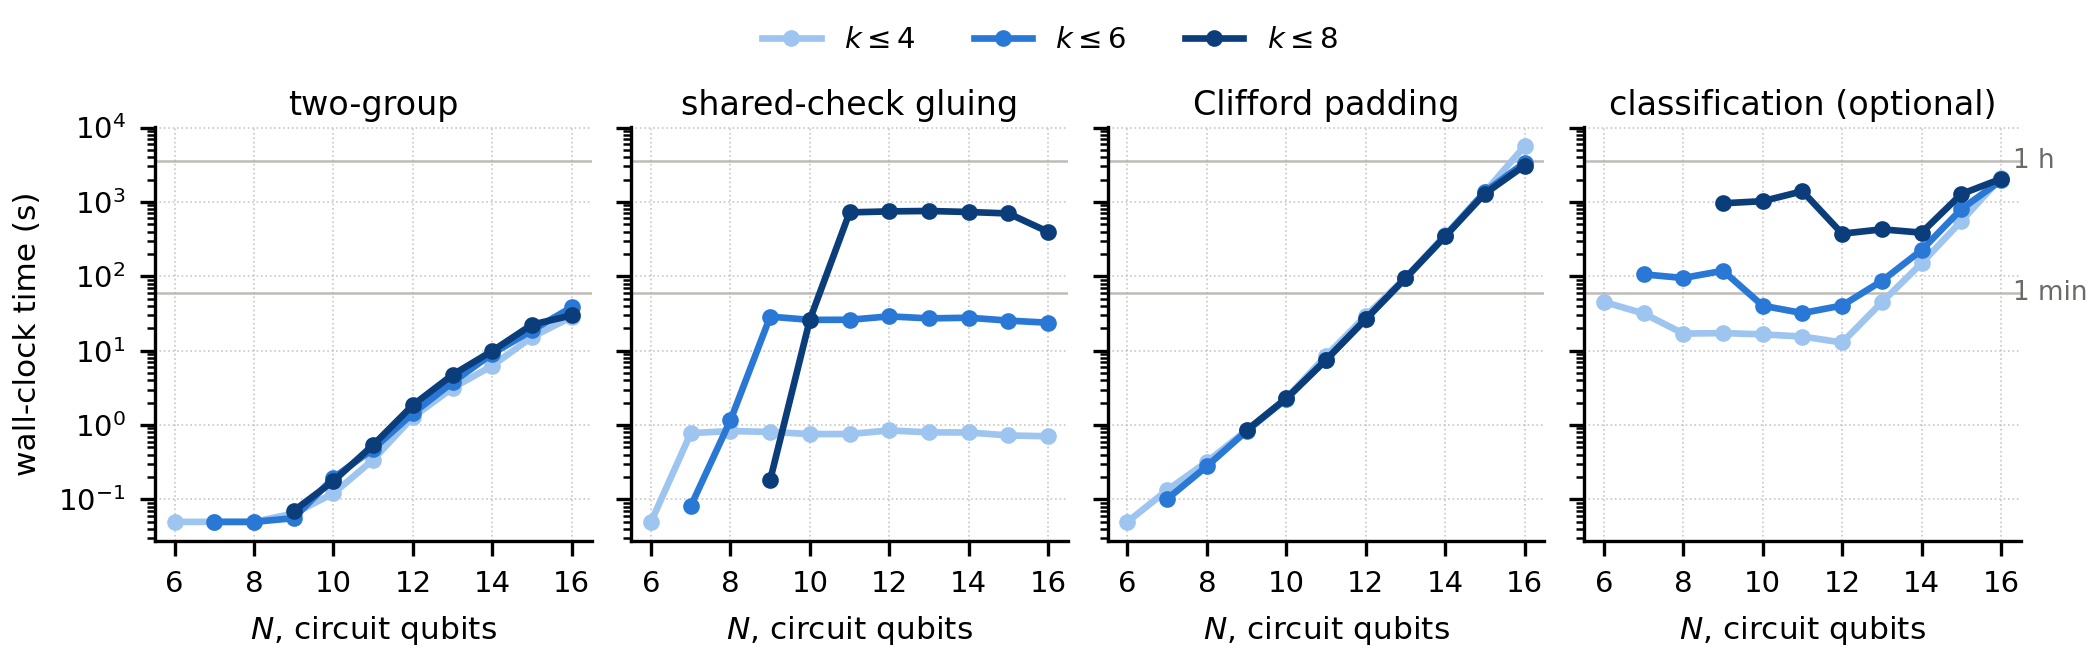
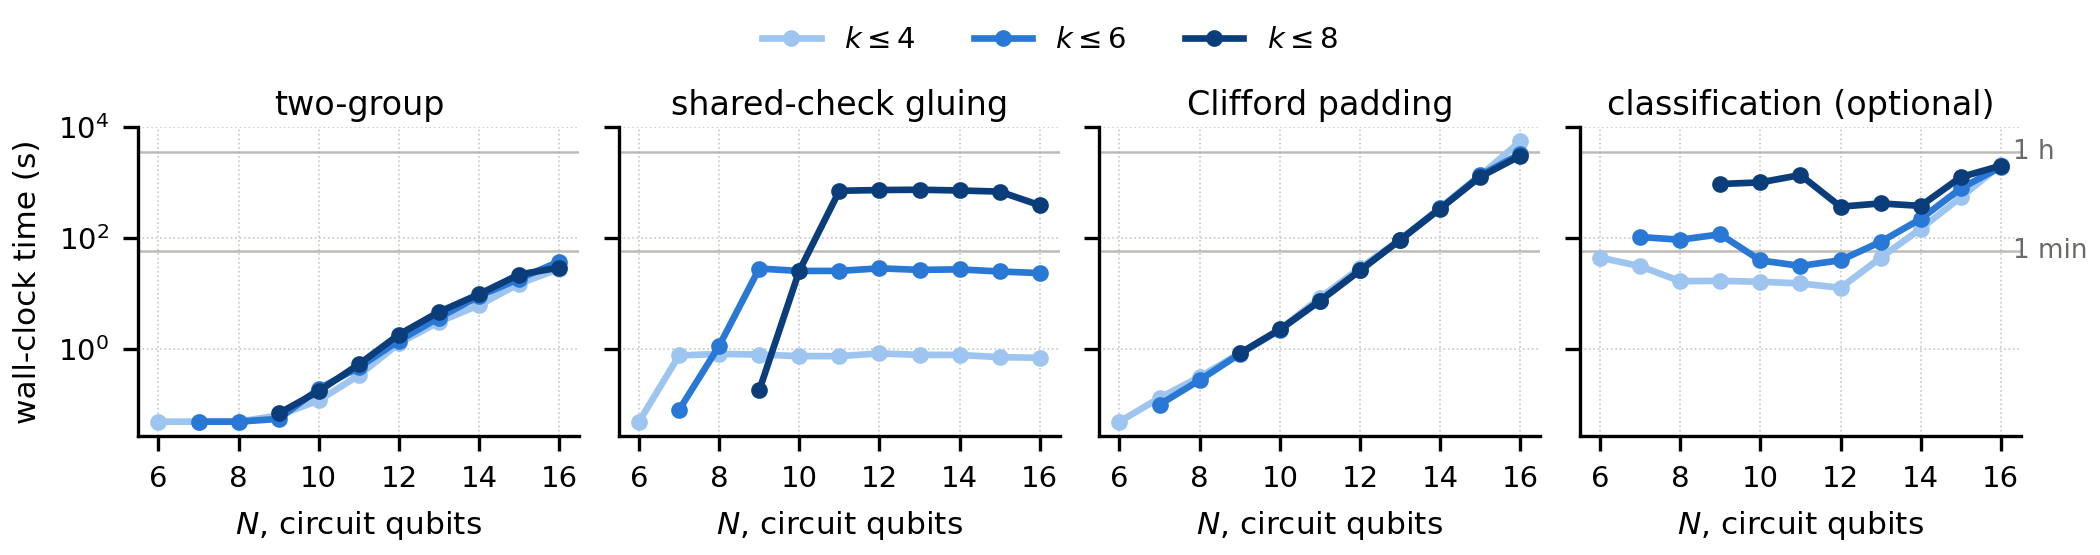
readme update

diff --git a/searches/plot_stage_scaling.py b/searches/plot_stage_scaling.py
@@ -10,7 +10,7 @@ D = json.load(open(os.path.join(ROOT, "outputs", "stage_scaling.json")))
 STAGES = [("two_group", "two-group"), ("gluing", "shared-check gluing"), ("padding", "Clifford padding"),
           ("classification", "classification (optional)")]
 COL = {4: "#9ec5ef", 6: "#2a78d6", 8: "#0b3d7a"}         # one sequential hue, light to dark with k_max
-fig, axes = plt.subplots(1, 4, figsize=(7.0, 2.2), sharey=True, constrained_layout=True)
+fig, axes = plt.subplots(1, 4, figsize=(7.0, 1.85), sharey=True, constrained_layout=True)
 for ax, (key, title) in zip(axes, STAGES):
     for k in (4, 6, 8):
         P = sorted((p["N_max"], max(p["seconds"][key], 0.05)) for p in D if p["k_max"] == k)

diff --git a/README.md b/README.md
@@ -41,7 +41,7 @@ combined across `l=2,3,4`.
   `outputs/README.md`). Each row has its Clifford-reduced decomposition into `T`/`CS`/`CCZ`-type
   generators, an exact `Z(π/2^l)` count, and the **search stage** that found it (`two-group`, `gluing`,
   `padding`, `SAT`). The two-group stage runs in seconds; the full pipeline, including the optional
-  classification of every output, takes under an hour on a laptop.
+  classification of every output, takes about 30 minutes on a laptop (about 10 of them the search itself).
 - **Regenerate for any range.** `python3 searches/unified_search.py [--levels ... --kmax ... --nmax ...
   --rmax ... --relabel ... --sat] [--out-dir DIR]` writes both CSVs (with Quirk links and search stage)
   and `search_timing.json` (wall-clock per stage) for whatever parameter range you choose.
@@ -50,7 +50,7 @@ combined across `l=2,3,4`.
   the two-group stage gives 534 distinct factories directly, and 902 more after Clifford padding.
 - **Mixed-output factories beat distilling their parts separately.** At `l=3`, from `T` inputs,
   one factory delivers `CCZ123 CS45` in `n=18` inputs (`[[18,5,2]]`) instead of `8+12=20`, `CS12 T3` in
-  `n=20` instead of `26`, and `CCZ123 CS45 T6` in `n=26` instead of `34`; all 14 mixed targets with
+  `n=20` instead of `26`, and `CCZ123 CS45 T6` in `n=26` instead of `32`; all 11 mixed targets with
   `k<=6` save inputs. `searches/synthillation_compare.py` checks every target against synthillation.
 - **Exact minimality.** `searches/coset_certify.py` proves the smallest `n` for a target on a fixed
   number `N` of circuit qubits (exact up to `N=7`); 12 targets are proved smallest.

diff --git a/figures/README.md b/figures/README.md
@@ -5,8 +5,9 @@
 | `new_factories.png` | Fig. 1: each new factory against the best prior construction for its target | `searches/plot_new_factories.py` |
 | `literature_recovered.png` | Fig. E1: every factory found (gray), with the literature factories it recovers | `searches/plot_literature.py` |
 | `stages.png` | Fig. S1: factories by search stage (color = level `l`, shape = stage) | `searches/plot_stages.py` |
-| `sequential.png` | Fig. S2: sequential search results, `l=2,3,4` | `searches/plot_supp_figures.py` (or `searches/sequential.ipynb`) |
-| `circuits/qk_*.pdf` | Figs. S3-S4: annotated parent circuits, drawn from the paper's Quirk links (each `Z(pi/2^l)` parity rotation one box, angle on top) | `figures/circuits/make_all.py` (`litinski.py`), then `pdflatex` each `qk_*.tex` |
+| `stage_scaling.png` | Fig. S2: wall-clock time of each search stage against `N`, one line per `k` | `searches/plot_stage_scaling.py` |
+| `sequential.png` | Fig. S3: sequential search results, `l=2,3,4` | `searches/plot_supp_figures.py` (or `searches/sequential.ipynb`) |
+| `circuits/qk_*.pdf` | Figs. S4-S5: annotated parent circuits, drawn from the paper's Quirk links (each `Z(pi/2^l)` parity rotation one box, angle on top) | `figures/circuits/make_all.py` (`litinski.py`), then `pdflatex` each `qk_*.tex` |
 
 All scripts run from the repo root, e.g. `python3 searches/plot_stages.py`. For the circuits:
 `cd figures/circuits && python3 make_all.py && for f in qk_*.tex; do pdflatex $f; done`.

diff --git a/searches/README.md b/searches/README.md
@@ -45,7 +45,7 @@ are written generically in `l`; the Clifford hierarchy level isn't hardcoded any
 ## Running them
 
 ```
-python3 searches/unified_search.py   # writes ../outputs/{all_factories,smallest_per_class}.csv, all_factories_with_quirk.csv.zip, search_timing.json; ~40 min at the full range
+python3 searches/unified_search.py   # writes ../outputs/{all_factories,smallest_per_class}.csv, all_factories_with_quirk.csv.zip, search_timing.json; ~30 min at the full range (about 10 min of search, the rest optional classification and Quirk links)
 python3 searches/Two_group.py        # library module; run via two_group.ipynb, or import directly
 jupyter notebook searches/two_group.ipynb
 jupyter notebook searches/sequential.ipynb   # ~30 s; writes ../figures/sequential.png
